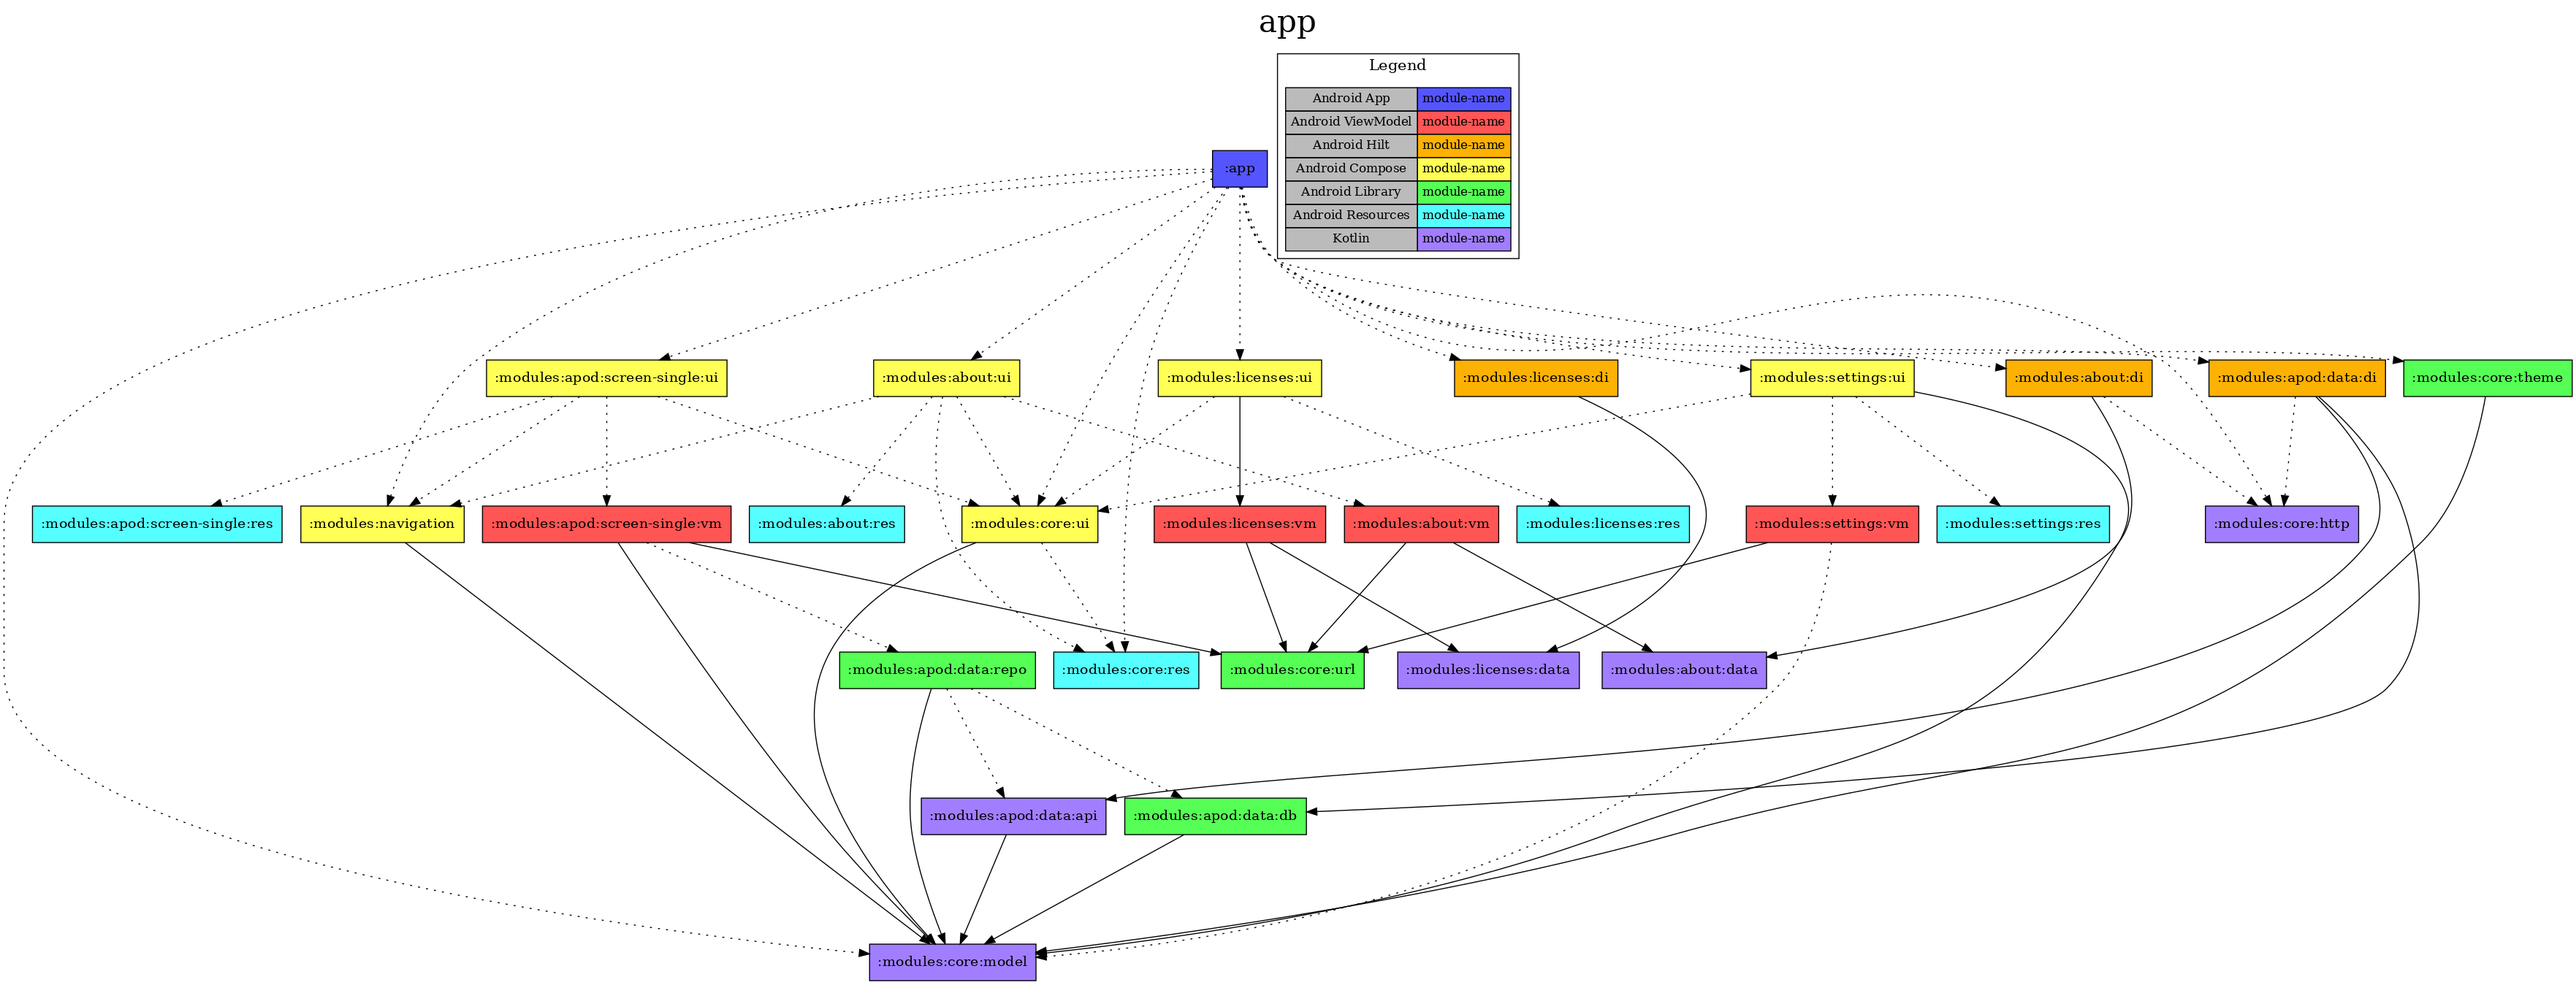
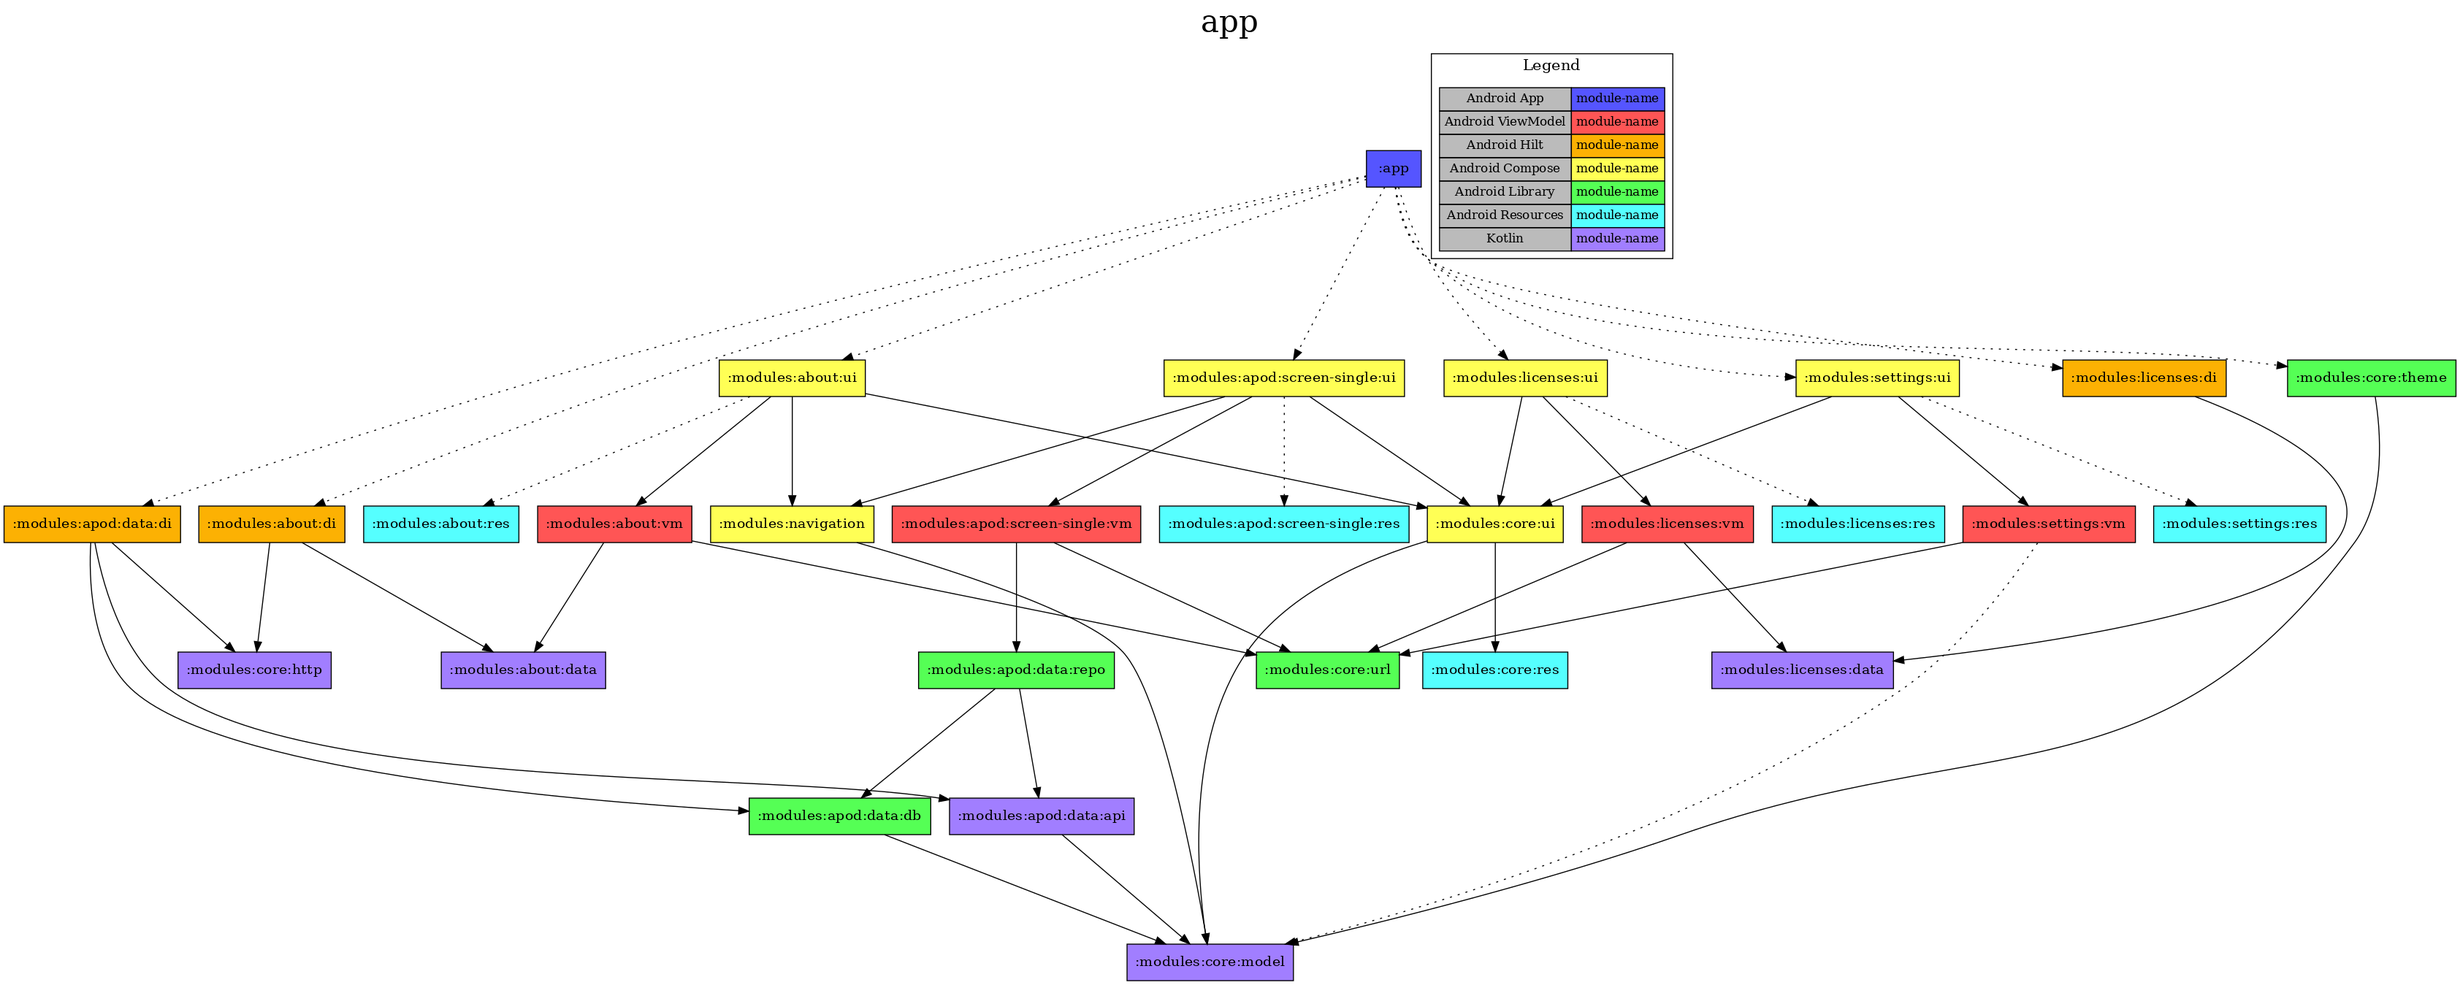
Simplify dependency graph

diff --git a/TODO.md b/TODO.md
@@ -14,5 +14,3 @@
   - alakazam, other libs
 - LoadResult to string with resources
 - open apod item in browser
-- simplify build graph
-  - apis, core-model, etc.
